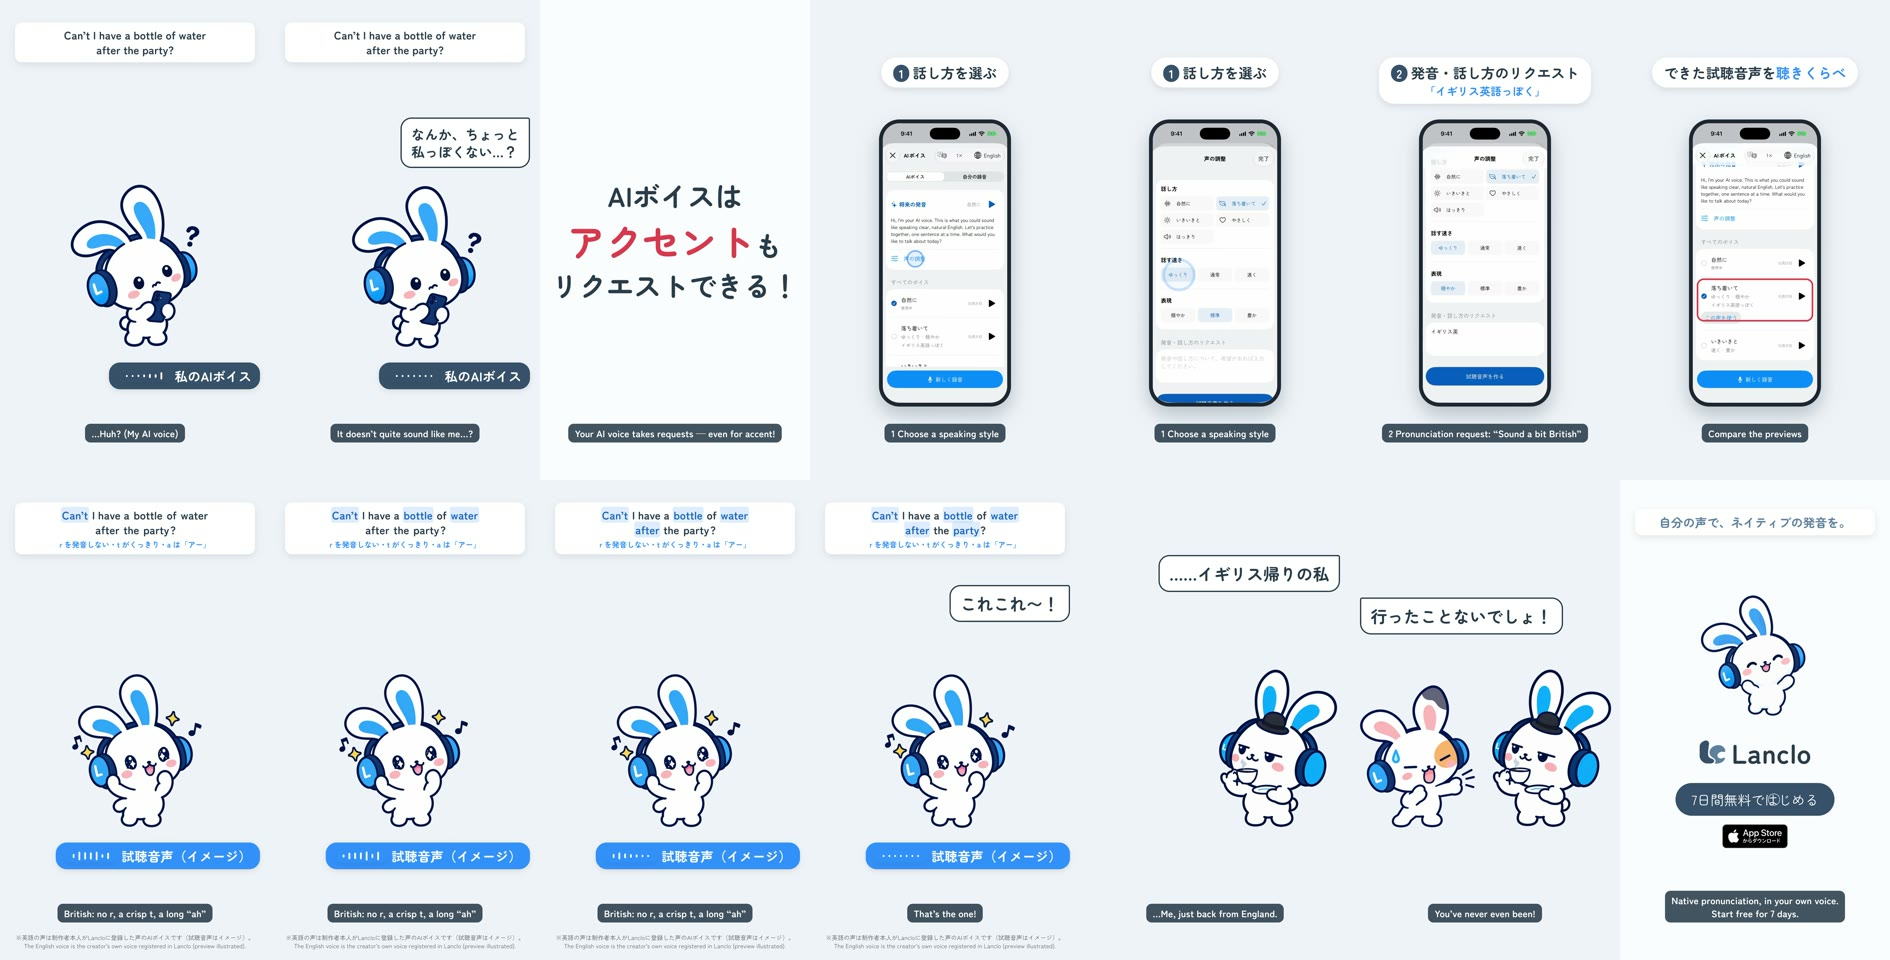
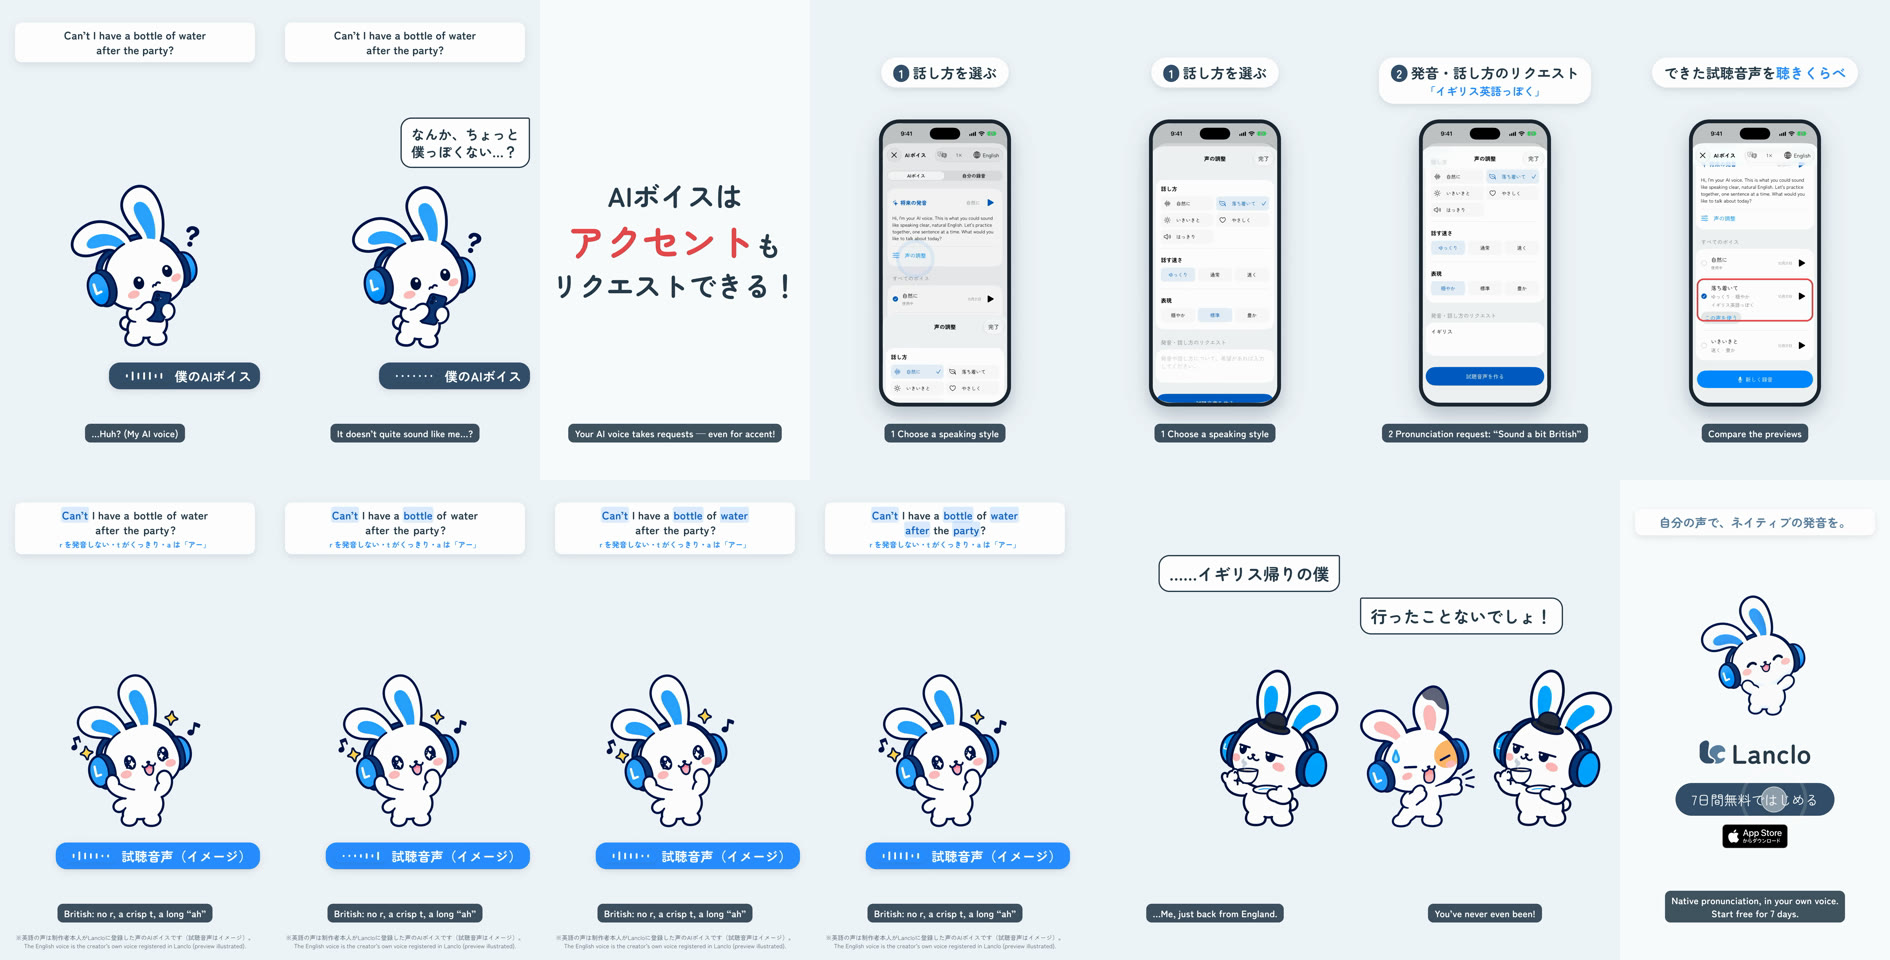
mimi-tuning: Mimi says 僕: change her first person in Japanese text (owner rule 2026-10-21)

diff --git a/films/mimi-tuning/source/hf/index.html b/films/mimi-tuning/source/hf/index.html
@@ -56,9 +56,9 @@
       <div id="open" class="stage clip" data-start="0" data-duration="3.75" data-track-index="1">
         <img id="o-mimi" class="solo" src="assets/art/mimi-tilt.webp" alt="" />
         <div id="b-hmm" class="bubble from-right first big">……あれ？</div>
-        <div id="b-notme" class="bubble from-right reply">なんか、ちょっと<br />私っぽくない…？</div>
+        <div id="b-notme" class="bubble from-right reply">なんか、ちょっと<br />僕っぽくない…？</div>
         <div id="l-us" class="line">Can’t I have a bottle of water<br />after the party?</div>
-        <div id="t-mine" class="tag model"><span><span class="wave" id="w1"></span>私のAIボイス</span></div>
+        <div id="t-mine" class="tag model"><span><span class="wave" id="w1"></span>僕のAIボイス</span></div>
       </div>
 
       <!-- The hook card (3.75-4.95) -->
@@ -101,7 +101,7 @@
       <div id="punch" class="stage clip" data-start="16.2" data-duration="2.0" data-track-index="1">
         <img id="p-friend" class="friend" src="assets/art/friend-tsukkomi.webp" alt="" style="opacity:0" />
         <img id="p-mimi" class="mimi" src="assets/art/mimi-tea.webp" alt="" />
-        <div id="b-uk" class="bubble from-right first big">……イギリス帰りの私</div>
+        <div id="b-uk" class="bubble from-right first big">……イギリス帰りの僕</div>
         <div id="b-never" class="bubble from-left reply big">行ったことないでしょ！</div>
       </div>
 

diff --git a/films/mimi-tuning/PROMPT.md b/films/mimi-tuning/PROMPT.md
@@ -2,11 +2,11 @@
 
 Mimiショート（2D公式スタイル、1080×1920、60fps、19.6秒、日本語の吹き出し・字幕＋英語字幕版）。mimi-voice の続編。
 
-1. 0–3.75秒：Mimi（中央、スマホを持って首をかしげる）が自分のAIボイス「Can't I have a bottle of water after the party?」（オーナー本人の登録した声、`us`）を聞く。上部の白いカードに同じ文。タグ「私のAIボイス」。吹き出し「……あれ？」→「なんか、ちょっと私っぽくない…？」。
+1. 0–3.75秒：Mimi（中央、スマホを持って首をかしげる）が自分のAIボイス「Can't I have a bottle of water after the party?」（オーナー本人の登録した声、`us`）を聞く。上部の白いカードに同じ文。タグ「僕のAIボイス」。吹き出し「……あれ？」→「なんか、ちょっと僕っぽくない…？」。
 2. 3.75–4.95秒：白いコピーカード「AIボイスは アクセントも リクエストできる！」（「アクセント」を赤で大きく）。
 3. 4.95–12.3秒：実アプリ（シミュレーター、テスト用データ）を中央の大きなスマホで。「声の調整」をタップ →「①話し方を選ぶ」（落ち着いて・ゆっくり・穏やか）→「②発音・話し方のリクエスト『イギリス英語っぽく』」を1文字ずつ入力 →「③試聴音声を作る」（ボタンに赤枠、押さない）→「できた試聴音声を聴きくらべ」（すべてのボイスで、リクエスト付きの試聴音声を赤枠）。
 4. 12.3–16.2秒：Mimi（うっとり）、同じ文のイギリス英語の試聴音声（オーナー本人の登録した声、`uk`）。カードの can't / bottle / water / after / party を発音に合わせて色付け、下に「r を発音しない・t がくっきり・a は「アー」」。タグ「試聴音声（イメージ）」、注記「※英語の声は制作者本人がLancloに登録した声のAIボイスです（試聴音声はイメージ）。」。吹き出し「これこれ〜！」。
-5. 16.2–18.2秒：山高帽とティーカップのMimi「……イギリス帰りの私」→ 友だち（ツッコミ）が飛び込んで「行ったことないでしょ！」。
+5. 16.2–18.2秒：山高帽とティーカップのMimi「……イギリス帰りの僕」→ 友だち（ツッコミ）が飛び込んで「行ったことないでしょ！」。
 6. 18.2–19.6秒：エンドカード「自分の声で、ネイティブの発音を。」「7日間無料ではじめる」をタップ。
 
 音：テーマBGM（コピーカードから）、控えめなSFX（タップ、入力のカチカチ）、CTAタップに pochi。「試聴音声を作る」は実際には押さない。国旗は使わない。アプリでできないことは言わない（アクセントは「リクエストできる」）。

diff --git a/films/mimi-tuning/README.ja.md b/films/mimi-tuning/README.ja.md
@@ -2,7 +2,7 @@
 
 [English](README.md) · **日本語**
 
-[mimi-voice](../mimi-voice/README.ja.md) の続編。Mimiが自分のAIボイスを聞いて首をかしげる「なんか、ちょっと私っぽくない…？」→ コピー「AIボイスは アクセントも リクエストできる！」→ 実アプリ（シミュレーター、テスト用データ）の「声の調整」：話し方（落ち着いて／ゆっくり／穏やか）→「発音・話し方のリクエスト」に「イギリス英語っぽく」→「試聴音声を作る」→「すべてのボイス」で聴きくらべ → 同じ文のイギリス英語の試聴音声（イメージ。「試聴音声を作る」は押していない）「Can't I have a bottle of water after the party?」、イギリス英語らしい語（can't / bottle / water / after / party）を発音に合わせて色付け→ 山高帽とティーカップのMimi「……イギリス帰りの私」、友だち「行ったことないでしょ！」→ エンドカード。19.6秒、1080×1920、60fps。日本語のみ版と英語字幕版の2本。
+[mimi-voice](../mimi-voice/README.ja.md) の続編。Mimiが自分のAIボイスを聞いて首をかしげる「なんか、ちょっと僕っぽくない…？」→ コピー「AIボイスは アクセントも リクエストできる！」→ 実アプリ（シミュレーター、テスト用データ）の「声の調整」：話し方（落ち着いて／ゆっくり／穏やか）→「発音・話し方のリクエスト」に「イギリス英語っぽく」→「試聴音声を作る」→「すべてのボイス」で聴きくらべ → 同じ文のイギリス英語の試聴音声（イメージ。「試聴音声を作る」は押していない）「Can't I have a bottle of water after the party?」、イギリス英語らしい語（can't / bottle / water / after / party）を発音に合わせて色付け→ 山高帽とティーカップのMimi「……イギリス帰りの僕」、友だち「行ったことないでしょ！」→ エンドカード。19.6秒、1080×1920、60fps。日本語のみ版と英語字幕版の2本。
 
 **声**：オーナー本人がLancloに登録した声のAIボイス（Gemini gemini-3.8-flash-tts）。同じ文を、調整前はアメリカ英語（`us`）、調整後はイギリス英語（`uk`、「イギリス英語っぽく」）で（`source/own-voice.json`）。声のファイルは生体情報なのでGitに入れず Drive `Tuning_assets/own-voice/` に保管。Mimiは女の子だが声はオーナー（男性）の声。
 

diff --git a/films/mimi-tuning/README.md b/films/mimi-tuning/README.md
@@ -2,7 +2,7 @@
 
 **English** · [日本語](README.ja.md)
 
-Sequel to [mimi-voice](../mimi-voice/README.md). Mimi hears her AI voice and tilts her head:「なんか、ちょっと私っぽくない…？」(it doesn't quite sound like me). The copy card says「AIボイスは アクセントも リクエストできる！」(your AI voice takes requests, even for accent). The real app (simulator, fixture data) shows 声の調整 (Tune your voice): pick a speaking style (落ち着いて / ゆっくり / 穏やか), type「イギリス英語っぽく」(sound a bit British) into 発音・話し方のリクエスト, the 試聴音声を作る (Create preview) button, then the previews side by side in すべてのボイス. The same line in the British preview (labelled イメージ: the film never presses Create preview) — "Can't I have a bottle of water after the party?", with the British markers (can't, bottle, water, after, party) lighting up as they are spoken, Mimi in a tiny bowler hat with a teacup:「……イギリス帰りの私」(me, just back from England) — her friend:「行ったことないでしょ！」(you've never even been!). End card.
+Sequel to [mimi-voice](../mimi-voice/README.md). Mimi hears her AI voice and tilts her head:「なんか、ちょっと僕っぽくない…？」(it doesn't quite sound like me). The copy card says「AIボイスは アクセントも リクエストできる！」(your AI voice takes requests, even for accent). The real app (simulator, fixture data) shows 声の調整 (Tune your voice): pick a speaking style (落ち着いて / ゆっくり / 穏やか), type「イギリス英語っぽく」(sound a bit British) into 発音・話し方のリクエスト, the 試聴音声を作る (Create preview) button, then the previews side by side in すべてのボイス. The same line in the British preview (labelled イメージ: the film never presses Create preview) — "Can't I have a bottle of water after the party?", with the British markers (can't, bottle, water, after, party) lighting up as they are spoken, Mimi in a tiny bowler hat with a teacup:「……イギリス帰りの僕」(me, just back from England) — her friend:「行ったことないでしょ！」(you've never even been!). End card.
 
 0:19.6 / 1080×1920, 60 fps / Japanese speech bubbles and captions, one English sentence / official 2D poses + GSAP, real app (simulator) + HyperFrames
 

diff --git a/films/mimi-tuning/PROCESS.md b/films/mimi-tuning/PROCESS.md
@@ -19,3 +19,9 @@
 - 新しいポーズ3枚（Mimi：首かしげ／うっとり／山高帽とティーカップ）は codex-p で公式アートと既存ポーズから作画（`prompts/01-codex-poses.txt`）。友だちのツッコミは mimi-swipe の friend-tsukkomi。国旗・紋章は使っていない。
 
 学び：テスト用データの声ライブラリには `--qa-voice-library` / `--qa-voice-tuning` / `--qa-voice-generated` があり、生成を呼ばずに調整シートと「生成後」の一覧を撮れる。シミュレーターで日本語を `typeText` すると1文字ごとにキーボードが出入りするので、編集でコマを選ぶ。
+
+## 2026-10-21 Mimiの一人称を「僕」に
+
+オーナー：「Mimiの一人称は僕で。別に性別は気にしてないけど、文字は僕にしておいて」
+
+Mimiのセリフ3か所を変更：「なんか、ちょっと私っぽくない…？」→「なんか、ちょっと僕っぽくない…？」、タグ「私のAIボイス」→「僕のAIボイス」、「……イギリス帰りの私」→「……イギリス帰りの僕」。語尾はそのまま（僕でも自然に読める）。友だちのセリフ「行ったことないでしょ！」は変更なし。英語字幕は変更なし。2本とも書き出し直してDriveの下書きを差し替えた（前の版は `old/`）。
